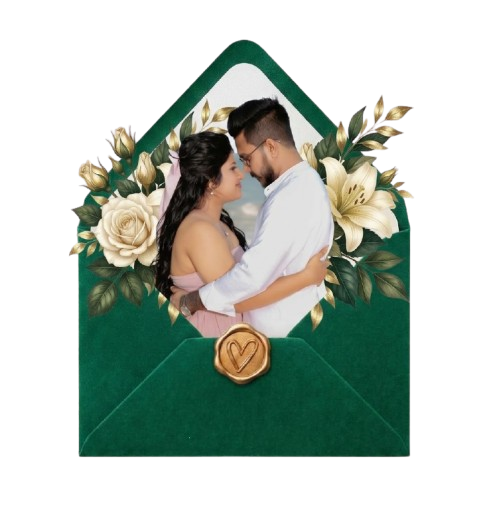
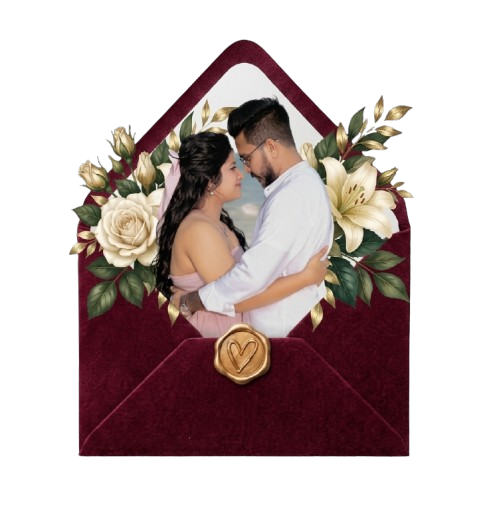
Initial commit

diff --git a/index.html b/index.html
@@ -3,15 +3,15 @@
 <head>
     <meta charset="UTF-8">
     <meta name="viewport" content="width=device-width, initial-scale=1.0">
-    <title>Kushan Pathum & Hiruni Himasha- Wedding Invitation</title>
+    <title>Kushan Pathum & Hiruni Himasha- Home-Coming Invitation</title>
 
 
-  <meta property="og:title" content="Kushan Pathum & Hiruni Himasha - Wedding Invitation" />
-  <meta property="og:description" content="Warmly invites you to our wedding!" />
+  <meta property="og:title" content="Kushan Pathum & Hiruni Himasha - Home-Coming Invitation" />
+  <meta property="og:description" content="Warmly invites you to our Home-Coming!" />
   
   <!-- මෙන්න මෙი විදිහට images folder එක හරιa path එක දෙන්න -->
   <!-- <meta property="og:image" content="https://chathurangani.github.io/kushan-hiruni-wedding/Images/img4.jpeg" /> -->
-   <meta property="og:image" content="https://chathurangani.github.io/kushan-hiruni-wedding/Images/img4.jpeg" />
+   <meta property="og:image" content="https://chathurangani.github.io/kushan-hiruni-home-coming/Images/img4.jpeg" />
   
  <meta property="og:image:width" content="1200" />
 <meta property="og:image:height" content="630" />
@@ -77,7 +77,7 @@ href="https://cdn.jsdelivr.net/npm/swiper@11/swiper-bundle.min.css">
         <span class="ampersand">&amp;</span>
         <h1>Hiruni Himasha</h1>
 
-        <div class="date-text">December 12, 2026</div>
+        <div class="date-text">December 13, 2026</div>
 
         <div class="guest-box">
             <p>Warmly invites</p>
@@ -133,7 +133,7 @@ href="https://cdn.jsdelivr.net/npm/swiper@11/swiper-bundle.min.css">
 </div>
                 </div>
                   <p>Save the Date</p>
-          <p>December 12, 2026</p>
+          <p>December 13, 2026</p>
                 <h2 style="font-size: 1.6rem; color: #a86819; font-weight: 400;">Kushan Pathum</h2>
                 <!-- <span style="font-family: 'Pattaya', cursive; color: var(--accent-gold); font-size: 1.3rem;">&amp;</span> -->
                 <span style="font-family: 'Pattaya', cursive; color: #a86819; font-size: 1.3rem;">&amp;</span>
@@ -181,7 +181,7 @@ href="https://cdn.jsdelivr.net/npm/swiper@11/swiper-bundle.min.css">
                 </div>
 
                 <p style="font-size: 0.85rem; letter-spacing: 1px; text-transform: uppercase; color: var(--accent-gold); margin-bottom: 15px;">
-                    We Joyfully Announce Our Wedding
+                    We Joyfully Announce Our Home-Coming
                 </p>
 
                  <h4 style="font-size: 1.3rem; margin-bottom: 5px;">Hiruni Himasha</h4>
@@ -315,7 +315,7 @@ href="https://cdn.jsdelivr.net/npm/swiper@11/swiper-bundle.min.css">
             <!-- December 1 starts on Tuesday -->
             <tr><td></td><td>1</td><td>2</td><td>3</td><td>4</td><td>5</td><td>6</td></tr>
             <!-- December 12 is on Saturday in the second week -->
-            <tr><td>7</td><td>8</td><td>9</td><td>10</td><td>11</td><td><span class="highlight-date">12</span></td><td>13</td></tr>
+            <tr><td>7</td><td>8</td><td>9</td><td>10</td><td>11</td><td>12</td><td><span class="highlight-date">13</span></td></tr>
             <tr><td>14</td><td>15</td><td>16</td><td>17</td><td>18</td><td>19</td><td>20</td></tr>
             <tr><td>21</td><td>22</td><td>23</td><td>24</td><td>25</td><td>26</td><td>27</td></tr>
             <tr><td>28</td><td>29</td><td>30</td><td>31</td><td></td><td></td><td></td></tr>
@@ -380,50 +380,29 @@ href="https://cdn.jsdelivr.net/npm/swiper@11/swiper-bundle.min.css">
                 <a href="https://maps.google.com" target="_blank" class="action-btn">Get Directions</a>
             </div> -->
 
-            <div class="info-card">
-    <h3>Church Wedding Venue</h3>
-    <p style="margin-bottom: 15px; font-weight: bold; color: var(--accent-gold);">Our Lady of Sorrows Church - Kaluaggala</p>
-    
-  <div class="info-card">
-                <h3>Wedding Mass Info</h3>
-                <p style="font-size: 0.9rem; margin-bottom: 15px;">The Wedding Mass Will Take Place At:</p>
-                <p style="font-size: 1.1rem; color: var(--accent-gold); font-weight: bold; margin-bottom: 10px;">
-                    9:00 AM &nbsp;|&nbsp; Saturday, December 12, 2026
-                </p>
-</div>
-    <!-- හෝටලයේ පින්තූරය එකතු කිරීම සඳහා -->
-    <div style="margin-bottom: 15px; border-radius: 8px; overflow: hidden;">
-        <img src="Images/Church.jpeg" alt="Our Lady of Sorrows Church - Kaluaggala" style="width: 100%; height: 200px; object-fit: cover; border-radius: 8px;">
-    </div>
 
-    <div class="map-container">
-        <iframe src="https://www.google.com/maps/embed?pb=!1m18!1m12!1m3!1d3960.7670490384107!2d80.09689927571443!3d6.918429418446546!2m3!1f0!2f0!3f0!3m2!1i1024!2i768!4f13.1!3m3!1m2!1s0x3ae3ab4cbde74c6d%3A0x1889fbfe00872519!2zT3VyIExhZHkgb2YgU29ycm93cyBDaHVyY2ggLSBLYWx1YWdnYWxhIHwg4LeA4LeS4Laa4LeK4LeB4Led4La0IOC2r-C3muC3gOC2uOC3j-C2reC3jyDgtq_gt5rgt4Dgt4Pgt4rgtq7gt4_gtrHgtrogLSDgtprgt4Xgt5TgtoXgtpzgt4rgtpzgtr0!5e0!3m2!1sen!2slk!4v1794212501404!5m2!1sen!2slk" width="600" height="450" style="border:0;" allowfullscreen="" loading="lazy" referrerpolicy="strict-origin-when-cross-origin"></iframe>
-    </div>
-    
-    <a href="https://maps.app.goo.gl/jrnneLyYBLLvWnXF8?g_st=aw" target="_blank" class="action-btn" style="margin-top: 15px;">Get Directions</a>
-</div>
 
             <div class="info-card">
-    <h3>Wedding Reception Venue</h3>
-    <p style="margin-bottom: 15px; font-weight: bold; color: var(--accent-gold);">Lavenro Garden Hotel Kosgama</p>
+    <h3>Home-Coming Reception Venue</h3>
+    <p style="margin-bottom: 15px; font-weight: bold; color: var(--accent-gold);">The Royal Grand Hotel Ja-Ela</p>
     
       <div class="info-card">
                 <h3>Reception Info</h3>
-                <p style="font-size: 0.9rem; margin-bottom: 15px;">The Reception Will Take Place At:</p>
+                <p style="font-size: 0.9rem; margin-bottom: 15px;">The Home-Coming Reception Will Take Place At:</p>
                 <p style="font-size: 1.1rem; color: var(--accent-gold); font-weight: bold; margin-bottom: 10px;">
-                    11:00 AM &nbsp;|&nbsp; Saturday, December 12, 2026
+                    6:30 PM &nbsp;|&nbsp; Sunday, December 13, 2026
                 </p>
 </div>
     <!-- හෝටලයේ පින්තූරය එකතු කිරීම සඳහා -->
     <div style="margin-bottom: 15px; border-radius: 8px; overflow: hidden;">
-        <img src="Images/hotel.jpeg" alt="Lavenro Garden Hotel" style="width: 100%; height: 200px; object-fit: cover; border-radius: 8px;">
+        <img src="Images/hotel.jpeg" alt="The Royal Grand Hotel" style="width: 100%; height: 300px; object-fit: cover; border-radius: 8px;">
     </div>
 
     <div class="map-container">
-        <iframe src="https://www.google.com/maps/embed?pb=!1m18!1m12!1m3!1d3960.55163456789!2d80.1345!3d6.9512!2m3!1f0!2f0!3f0!3m2!1i1024!2i768!4f13.1!3m3!1m2!1s0x3ae2or2f4QQSr4zoR%3A0x8536f9e319b3a435!2sLavenro%20Garden%20Hotel!5e0!3m2!1sen!2slk!4v1700000000000!5m2!1sen!2slk" allowfullscreen="" loading="lazy"></iframe>
+       <iframe src="https://www.google.com/maps/embed?pb=!1m23!1m12!1m3!1d15844.66913175904!2d80.04231435!3d6.8705495999999995!2m3!1f0!2f0!3f0!3m2!1i1024!2i768!4f13.1!4m8!3e6!4m0!4m5!1s0x3ae2f0c5ec3a8947%3A0x15192ae6ebbace92!2sThe%20Royal%20Grand%2C%201%2F1%20Old%20Negombo%20Road%2C%20Ja-Ela%2011350!3m2!1d7.0801405!2d79.8902397!5e0!3m2!1sen!2slk!4v1794224029631!5m2!1sen!2slk" width="600" height="450" style="border:0;" allowfullscreen="" loading="lazy" referrerpolicy="strict-origin-when-cross-origin"></iframe>
     </div>
     
-    <a href="https://maps.app.goo.gl/7zp4ADswWT6rykGd6" target="_blank" class="action-btn" style="margin-top: 15px;">Get Directions</a>
+    <a href="https://maps.app.goo.gl/Y2g4NsyX9VcVD7GW6" target="_blank" class="action-btn" style="margin-top: 15px;">Get Directions</a>
 </div>
 
             
@@ -463,7 +442,8 @@ href="https://cdn.jsdelivr.net/npm/swiper@11/swiper-bundle.min.css">
     <h3 class="gallery-title">Guestbook & Wishes</h3>
     
     <!-- Hidden Form for Google Sheet Submission -->
-    <form id="hidden-wish-form" action="https://script.google.com/macros/s/AKfycbwTiHrKxIo0vlDo_WZz0RfFAbHbC5tTyyCkUpaomB0-89XtW68993sBTMwe8fTrNn5uFg/exec" method="POST" target="hidden_iframe" style="display:none;">
+    <form id="hidden-wish-form" action="https://script.google.com/macros/s/AKfycbx7NHV0uP7EHVPuse5Dgr5gdC3OzZvHSihX7AiObWmddYW0Op81kklOWivMq9kEz-nL/exec" method="POST" target="hidden_iframe" style="display:none;">
+        //https://script.google.com/macros/s/AKfycbx7NHV0uP7EHVPuse5Dgr5gdC3OzZvHSihX7AiObWmddYW0Op81kklOWivMq9kEz-nL/exec
         <input type="text" name="Name" id="form-name">
         <textarea name="Message" id="form-message"></textarea>
     </form>

diff --git a/style.css b/style.css
@@ -1,11 +1,11 @@
 :root {
 
-    --primary-bg: #08291d;      
+    --primary-bg: #350505;      
     --card-bg: #fdfbf7;          
     --accent-gold: #d4af37;    
-    --text-dark: #163b2f;       
+    --text-dark: #8a2328;       
     --text-light: #f3e9e1;       
-    --burgundy: #163b2f;
+    --burgundy: #991b1b;
 }
 
 /* :root {
@@ -250,7 +250,7 @@ h1 {
     inset: 0;
     width: 100%;
     height: 100%;
-    background: rgba(15, 46, 34, 0.97);
+    background: #691212;
     display: flex;
     justify-content: center;
     align-items: center;
@@ -268,7 +268,7 @@ h1 {
 
 /* INVITATION CARD */
 .cover-card {
-    background: #0f2e22;
+    background: #691212;
     color: white;
     width: 100%;
     max-width: 420px;
@@ -368,7 +368,7 @@ h1 {
 
 /* GUEST BOX */
 .guest-box {
-    background: #0b3023;
+    background: #691212;
     padding: 15px;
     border-radius: 8px;
     margin: 20px 0;
@@ -398,7 +398,7 @@ h1 {
 /* OPEN BUTTON */
 .open-btn {
     background: var(--accent-gold);
-    color: #0f2e22;
+    color: #691212;
     border: none;
     padding: 12px 50px;
     font-size: 1.1rem;
@@ -460,6 +460,7 @@ h1 {
 .envelope-section {
     text-align: center;
     margin-bottom: 40px;
+    
 }
 
 .envelope-container {
@@ -469,13 +470,15 @@ h1 {
     margin: 0 auto 20px auto;
     border-radius: 12px;
     overflow: hidden;
-    background: #163b2f;
-    box-shadow: 0 20px 40px rgba(0, 0, 0, 0.6), 0 0 0 1px rgba(212, 175, 55, 0.3);
+    background: #691212;
+    box-shadow: 0 20px 40px rgba(153, 44, 44, 0.6), 0 0 0 1px rgba(185, 142, 54, 0.3);
+   
 }
 
 .envelope-container:hover {
     transform: translateY(-5px);
-    box-shadow: 0 25px 50px rgba(0, 0, 0, 0.7), 0 0 0 1px rgba(212, 175, 55, 0.5);
+    box-shadow: 0 25px 50px rgba(153, 51, 51, 0.7), 0 0 0 1px rgba(212, 175, 55, 0.5);
+    
 }
 
 .envelope-container img {
@@ -485,6 +488,17 @@ h1 {
     object-position: top center;
     border-radius: 0;
     box-shadow: none;
+
+
+    background: radial-gradient(circle at center, #88743d 0%, #740f1d 70%);
+    
+    /* Adds a subtle outer gold box-shadow glow */
+    box-shadow: 0 0 30px rgba(212, 175, 55, 0.25); 
+    
+    padding: 40px;
+    border-radius: 16px;
+    text-align: center;
+    margin-bottom: 48px;
 }
 
 /* .info-card {
@@ -498,13 +512,13 @@ h1 {
 } */
 
 .info-card {
-    background: #163b2f;
+    background: #691212;
     border-radius: 12px;
     padding: 35px 20px;
     margin-bottom: 30px;
     text-align: center;
     border: 5px solid rgba(143, 115, 24, 0.4);
-    box-shadow: 0 8px 20px rgba(177, 235, 43, 0.3);
+    box-shadow: 0 8px 20px rgba(100, 12, 12, 0.3);
 }
 
 .info-card h3 {
@@ -634,7 +648,7 @@ h1 {
     border-radius: 16px;
     overflow: hidden;
 
-    background: #153426;
+    background: #691212;
 
     filter: brightness(60%);
 
@@ -917,7 +931,7 @@ h1 {
 
 
 .calendar-box {
-    background: #03241b; /* Your emerald green background */
+    background: #691212; /* Your emerald green background */
     color: #ffffff;      /* Changes all text/numbers inside the box to white */
     border-radius: 10px;
     padding: 20px;
@@ -1029,7 +1043,7 @@ h1 {
 }
 
 .guestbook-form {
-    background: F#08291d;
+    background: F#691212;
     color: rgb(255, 255, 255);
     padding: 25px 20px;
     border-radius: 10px;
@@ -1081,7 +1095,7 @@ h1 {
 }
 
 .wish-item {
-    background: rgb(14, 58, 14);
+    background: #691212;
     color: rgb(206, 205, 178);
     padding: 15px;
     border-radius: 8px;
@@ -1114,7 +1128,7 @@ h1 {
     position: fixed;
     bottom: 20px;
     right: 20px;
-    background: #163b2f;
+    background: #691212;
     color: var(--accent-gold);
     width: 45px;
     height: 45px;
@@ -1149,7 +1163,7 @@ h1 {
     position: absolute;
     top: 50%;
     transform: translateY(-50%);
-    background: rgba(22, 59, 47, 0.9);
+    background: #691212;
     color: var(--accent-gold);
     border: 1px solid var(--accent-gold);
     width: 38px;
@@ -1166,7 +1180,7 @@ h1 {
 
 .gallery-arrow:hover {
     background: var(--accent-gold);
-    color: #163b2f;
+    color: #691212;
     transform: translateY(-50%) scale(1.1);
 }
 
@@ -1242,7 +1256,7 @@ h1 {
 
 .rsvp-modal-content {
     background: #cfc287;
-    color: #163b2f;
+    color: #691212;
     width: 100%;
     max-width: 420px;
     padding: 30px 25px;
@@ -1278,7 +1292,7 @@ h1 {
 
 .rsvp-modal-content h2 {
     font-size: 1.5rem;
-    color: #163b2f;
+    color: #691212;
     margin-bottom: 8px;
 }
 
@@ -1308,7 +1322,7 @@ h1 {
     border-radius: 8px;
     font-family: 'Lora', serif;
     background: #da9b5d;
-    color: #163b2f;
+    color: #691212;
     font-size: 0.9rem;
 }
 
@@ -1349,19 +1363,19 @@ h1 {
 }
 
 .rsvp-radio-card.selected {
-    border-color: #163b2f;
+    border-color: #691212;
     background: #f0f7f4;
     font-weight: bold;
 }
 
 .rsvp-radio-card.selected .radio-icon {
-    background: #163b2f;
+    background: #691212;
     color: #fff;
-    border-color: #163b2f;
+    border-color: #691212;
 }
 
 .rsvp-submit-btn {
-    background: #163b2f;
+    background: #691212;
     color: #d4af37;
     border: 1px solid #d4af37;
     width: 100%;
@@ -1376,7 +1390,7 @@ h1 {
 }
 
 .rsvp-submit-btn:hover {
-    background: #0f2e22;
+    background: #691212;
 }
 
 /* Moving Flower Animation Styles */
@@ -1584,7 +1598,7 @@ h1 {
 
 
 #guest-name {
-    color: #062915 !important; /* Gold */
+    color: #691212 !important; /* Gold */
     font-weight: 600;
 }
 

diff --git a/script.js b/script.js
@@ -565,7 +565,8 @@ document.addEventListener('keydown', function (e) {
             const attendanceStatus = selectedRadio ? selectedRadio.value : "I will attend";
             const guestMessage = rsvpMessageInput ? rsvpMessageInput.value.trim() : "";
 
-            const scriptURL = "https://script.google.com/macros/s/AKfycbx29zu3BX2cJjlJW6DdVktkIt6SV3t4NXqODKGomSAC519NKos2K4nsXqD_z48lXbEf/exec";
+            const scriptURL = "https://script.google.com/macros/s/AKfycbzCViQE-GmfOtF9ItzwF2XKvPLOvG7wmtSfXT3HjWmTkTY8VVR4R3vCln2nTo1QiuOu/exec";
+           // https://script.google.com/macros/s/AKfycbzCViQE-GmfOtF9ItzwF2XKvPLOvG7wmtSfXT3HjWmTkTY8VVR4R3vCln2nTo1QiuOu/exec
 
             const formData = new FormData();
             formData.append("Name", guestName);
@@ -596,8 +597,8 @@ document.addEventListener('keydown', function (e) {
     }
 
     // --- WISHES / GUESTBOOK INTEGRATION ---
-    const WISHES_SCRIPT_URL = 'https://script.google.com/macros/s/AKfycbwTiHrKxIo0vlDo_WZz0RfFAbHbC5tTyyCkUpaomB0-89XtW68993sBTMwe8fTrNn5uFg/exec';
-    
+    const WISHES_SCRIPT_URL = 'https://script.google.com/macros/s/AKfycbx7NHV0uP7EHVPuse5Dgr5gdC3OzZvHSihX7AiObWmddYW0Op81kklOWivMq9kEz-nL/exec';
+    //https://script.google.com/macros/s/AKfycbx7NHV0uP7EHVPuse5Dgr5gdC3OzZvHSihX7AiObWmddYW0Op81kklOWivMq9kEz-nL/exec
     // Initial fetch of wishes
     fetchWishes();
 
@@ -688,7 +689,7 @@ document.addEventListener('keydown', function (e) {
 function updateCountdown() {
     // December 12, 2026 at 11:00 AM
     const receptionDate = new Date(
-        "2026-12-12T11:00:00+05:30"
+        "2026-12-13T18:30:00+05:30"
     ).getTime();
 
     const now = new Date().getTime();
